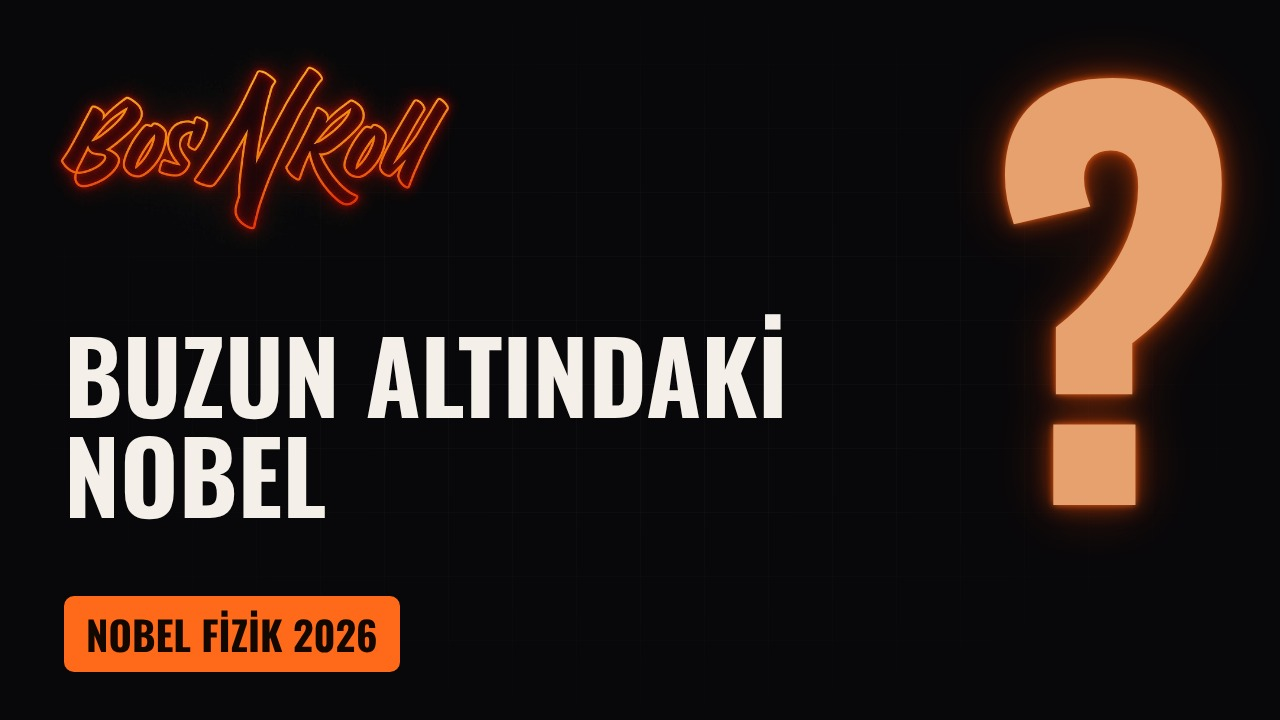
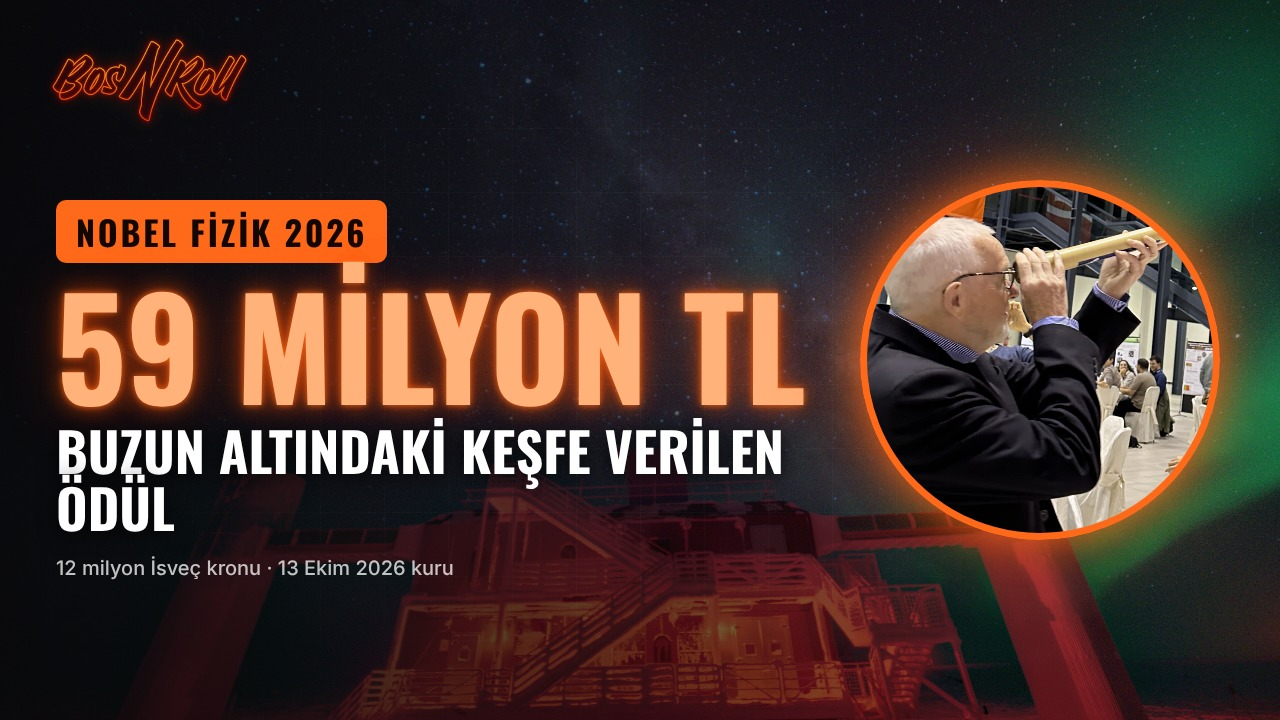
Nobel thumbnail with prize amount in TL
Claude-Session: https://claude.ai/code/session_01EPuL2y4rPjw6rqtgchjLxH

diff --git a/src/bosnroll/templates/scene.html b/src/bosnroll/templates/scene.html
@@ -199,6 +199,16 @@ svg .dim { opacity: .28; }
 .pwide img { max-height: 470px; object-fit: cover; }
 .pside .credit, .pwide .credit { bottom: 196px; }
 .laur .medal.ph { background-size: cover; background-position: center 30%; font-size: 0; }
+
+.rthumb { position: absolute; inset: 0; padding: 40px 56px; display: flex; flex-direction: column; justify-content: center; gap: 14px; max-width: 880px; }
+.rthumb .tlogo { position: absolute; top: 30px; left: 44px; width: 210px; }
+.rthumb .tchip { align-self: flex-start; font-family: "Oswald"; font-weight: 700; font-size: 34px; letter-spacing: .08em; padding: 6px 20px; background: var(--neon); color: #120800; border-radius: 10px; margin-top: 60px; }
+.rthumb .tbig { font-family: "Oswald"; font-weight: 700; font-size: 138px; line-height: .95; text-transform: uppercase; white-space: nowrap; }
+.rthumb .tsub { font-family: "Oswald"; font-weight: 700; font-size: 54px; line-height: 1.05; text-transform: uppercase; color: #fff; text-shadow: 0 3px 20px rgba(0,0,0,.9); }
+.rthumb .tfoot { font-size: 20px; color: rgba(255,255,255,.75); margin-top: 6px; }
+.tface { position: absolute; right: 60px; top: 50%; transform: translateY(-50%); width: 360px; height: 360px; border-radius: 50%;
+  background-size: 160%; background-position: 22% 18%; border: 7px solid var(--neon); box-shadow: 0 0 40px rgba(255,106,26,.8), 0 0 90px rgba(255,77,0,.5); }
+body.thumb .bgphoto::after { background: linear-gradient(90deg, rgba(8,8,10,.92) 0%, rgba(8,8,10,.6) 55%, rgba(8,8,10,.25) 100%); }
 </style>
 </head>
 <body>
@@ -403,7 +413,20 @@ const DOC = {
   diagram: (d) => `<div class="diag">${DIAGRAMS[d.name](d)}<div class="cap">${esc(d.caption || "")}</div></div>`,
 };
 
+function renderRichThumb(ep, t) {
+  document.body.className = "thumb";
+  const bg = t.photo ? `<div class="bgphoto" style="background-image:url('${photoUrl(ep, t.photo)}')"></div>` : "";
+  const face = t.face ? `<div class="tface" style="background-image:url('${photoUrl(ep, t.face)}')"></div>` : "";
+  document.getElementById("root").innerHTML = `${bg}<div class="rthumb">
+    <img class="tlogo" src="../../../assets/logo.png">
+    <div class="tchip">${esc(t.chip)}</div>
+    <div class="tbig neon">${esc(t.big)}</div>
+    <div class="tsub">${esc(t.sub)}</div>
+    <div class="tfoot">${esc(t.foot || "")}</div></div>${face}`;
+}
+
 function renderThumb(ep) {
+  if (ep.thumbnail) return renderRichThumb(ep, ep.thumbnail);
   document.body.className = "thumb";
   document.getElementById("root").innerHTML = `<div class="thumbwrap"><div class="q neon">?</div>
     <img src="../../../assets/logo.png"><h1>${esc(ep.thumbnail_text)}</h1><div class="chip">${ep.format === "doc" ? esc(ep.stories[0].kicker) : "5N1K · " + esc(ep.date_label)}</div></div>`;
